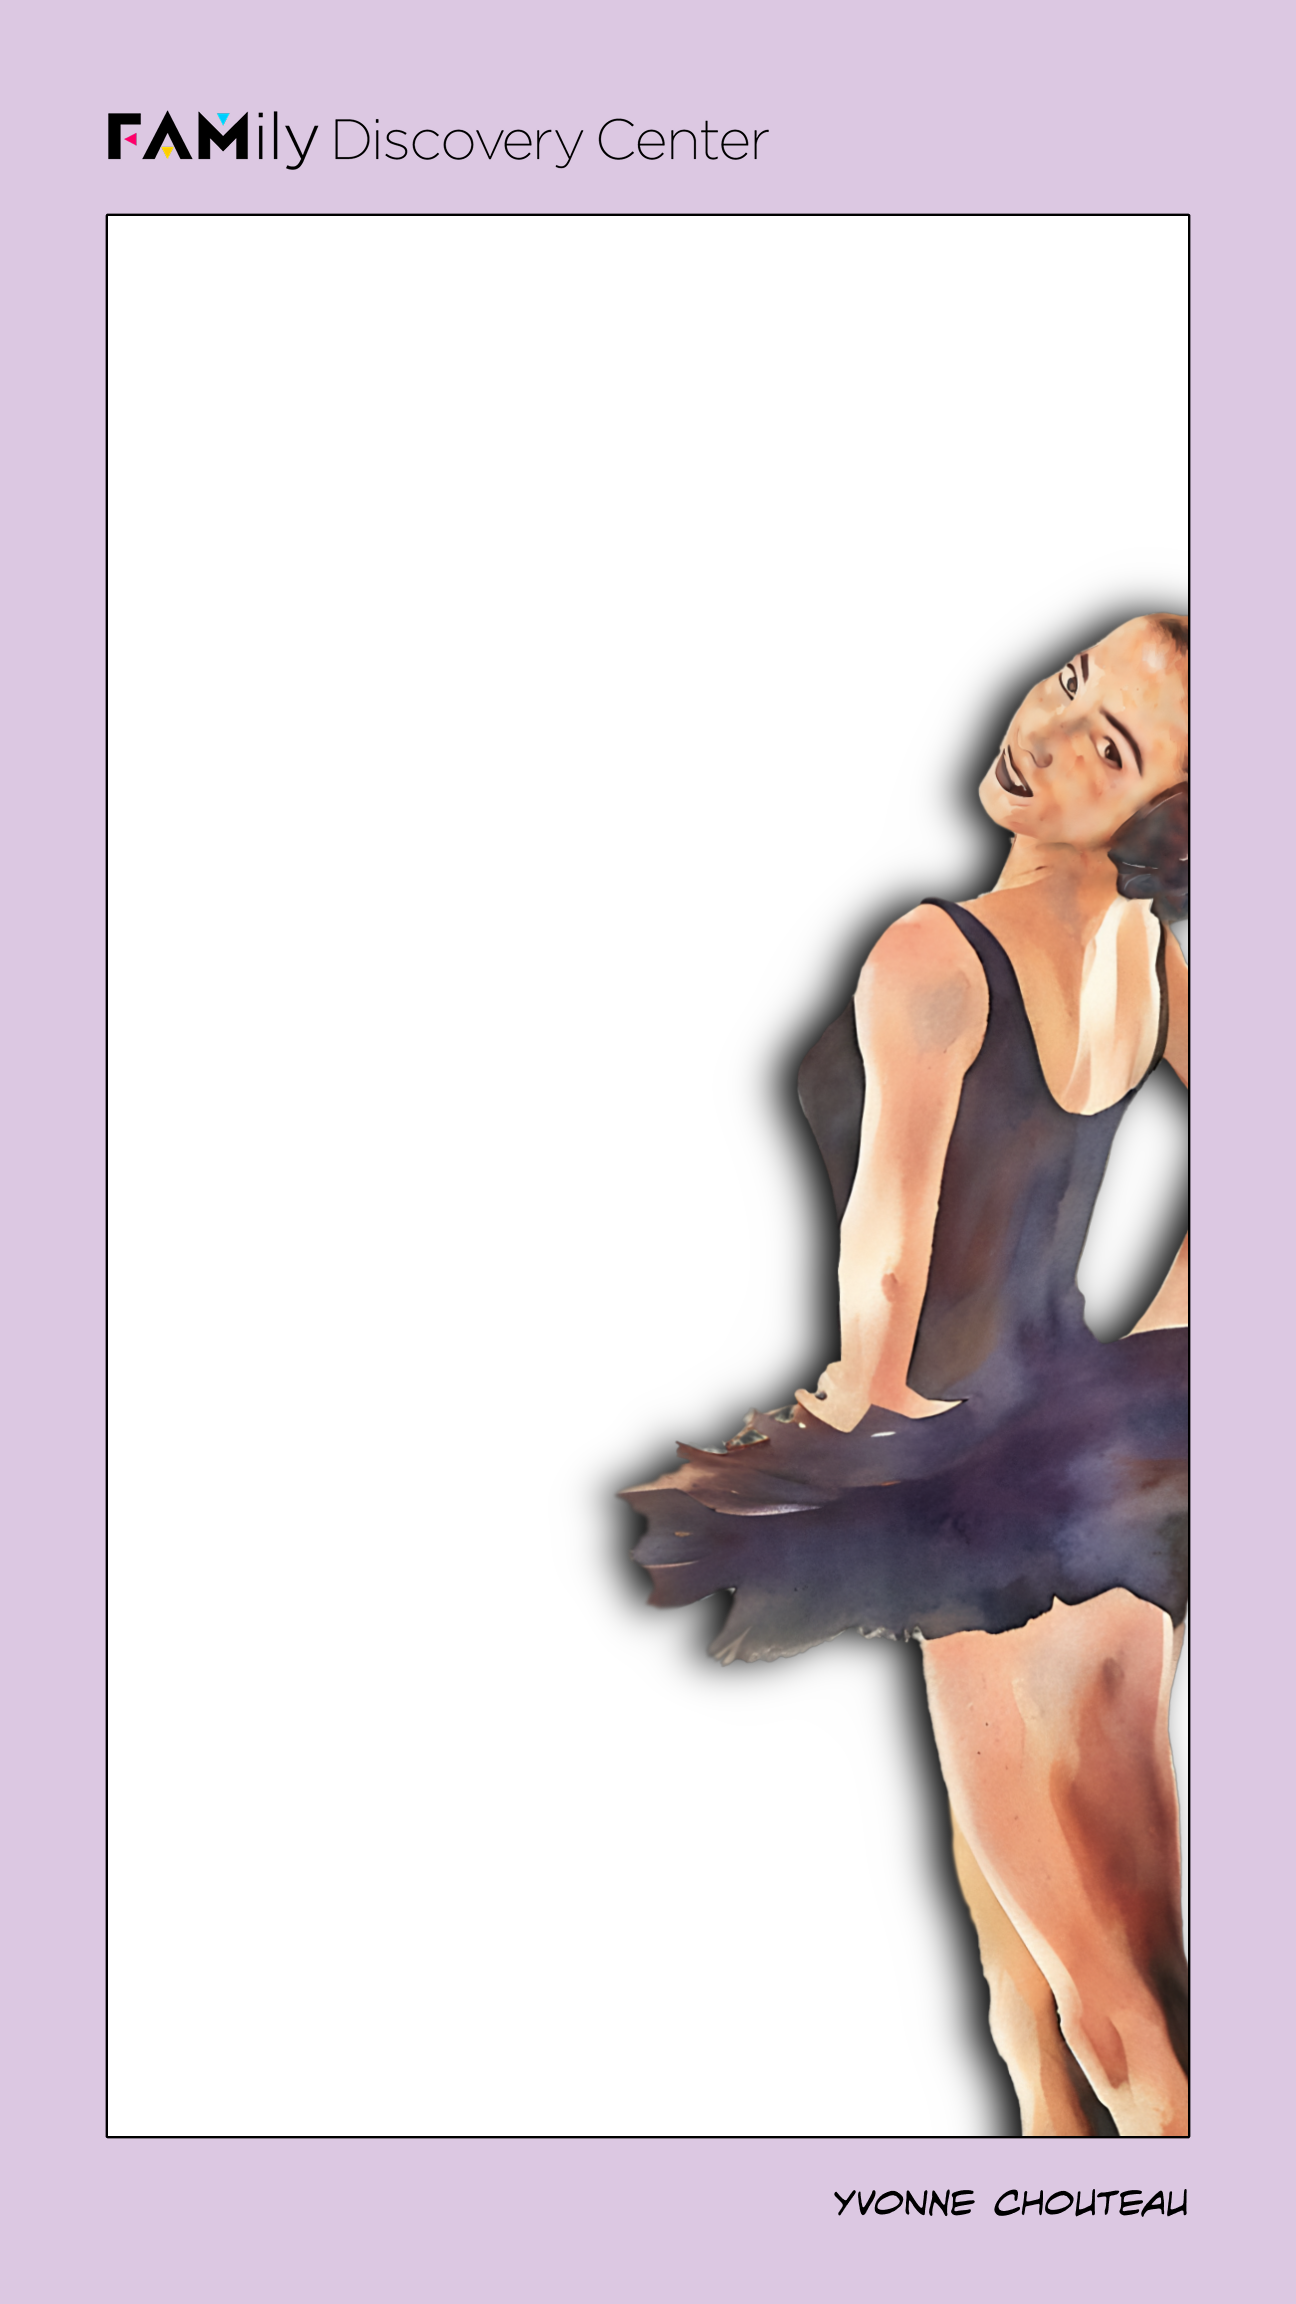
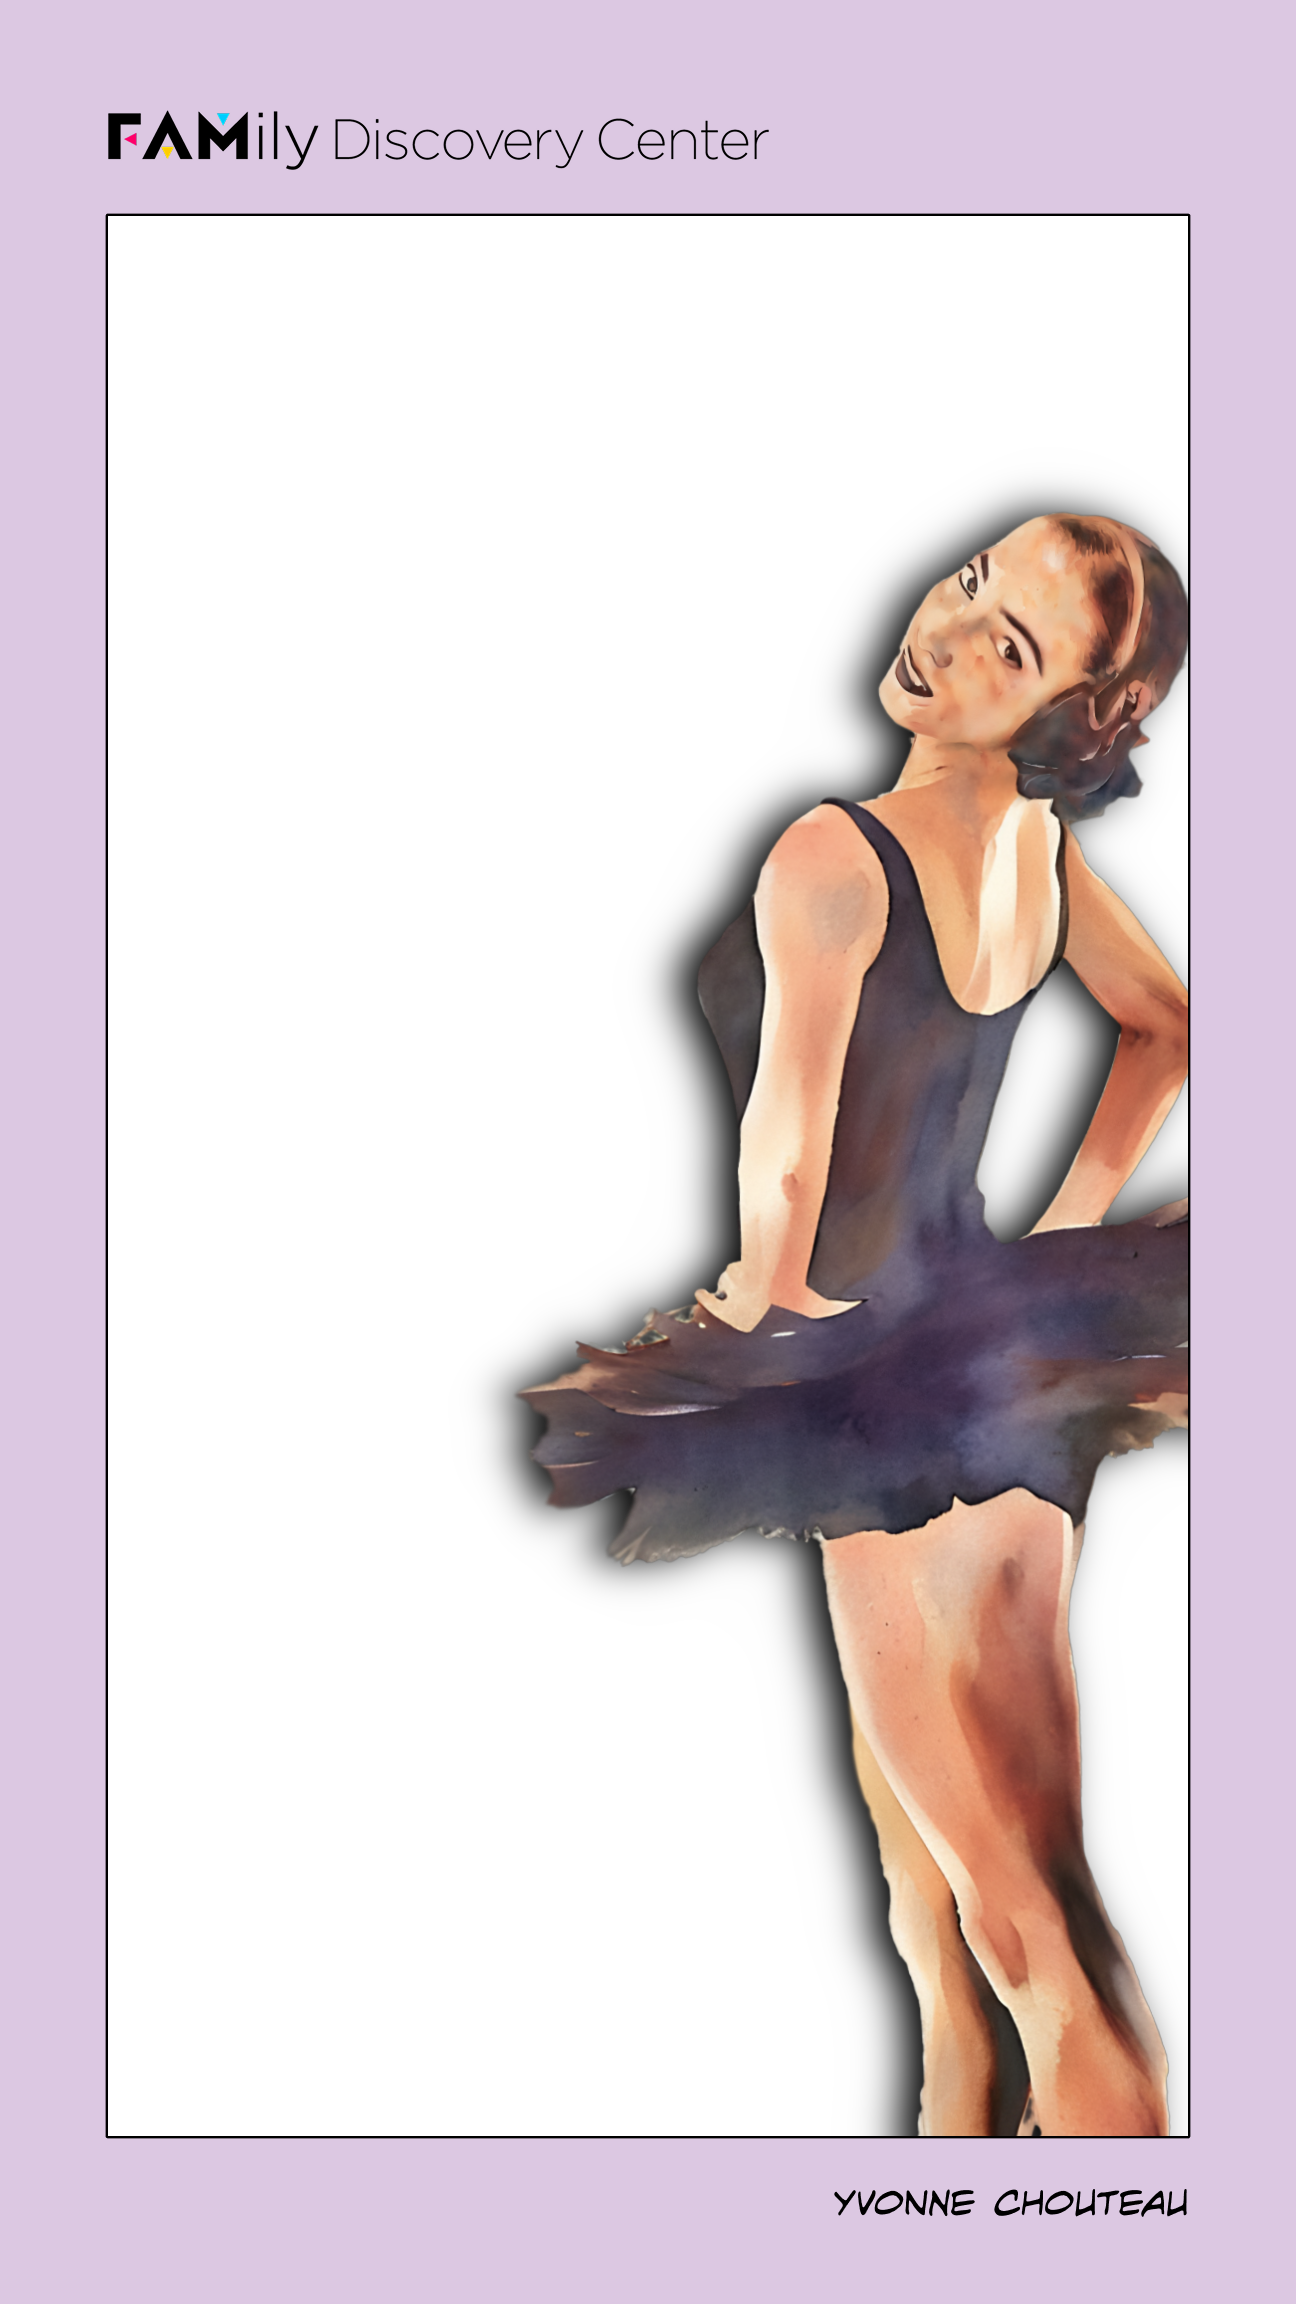
Add shadow to selfie preview cutout, properly align edited photo cutout

Changed region(s): [[0.3704, 0.1875, 0.9259, 0.9375]]

diff --git a/public/css/style.css b/public/css/style.css
@@ -290,10 +290,10 @@ body {
 
 #selfie-cutout {
   position: absolute;
-  left: 700px;
-  top: 720px;
-  width: 930px;
-  height: 2976px;
+  left: 810px;
+  top: 850px;
+  width: 800px;
+  height: 2560px;
   transform: scaleX(-1);
   filter: drop-shadow(-20px 0px 60px black);
   z-index: 4;
